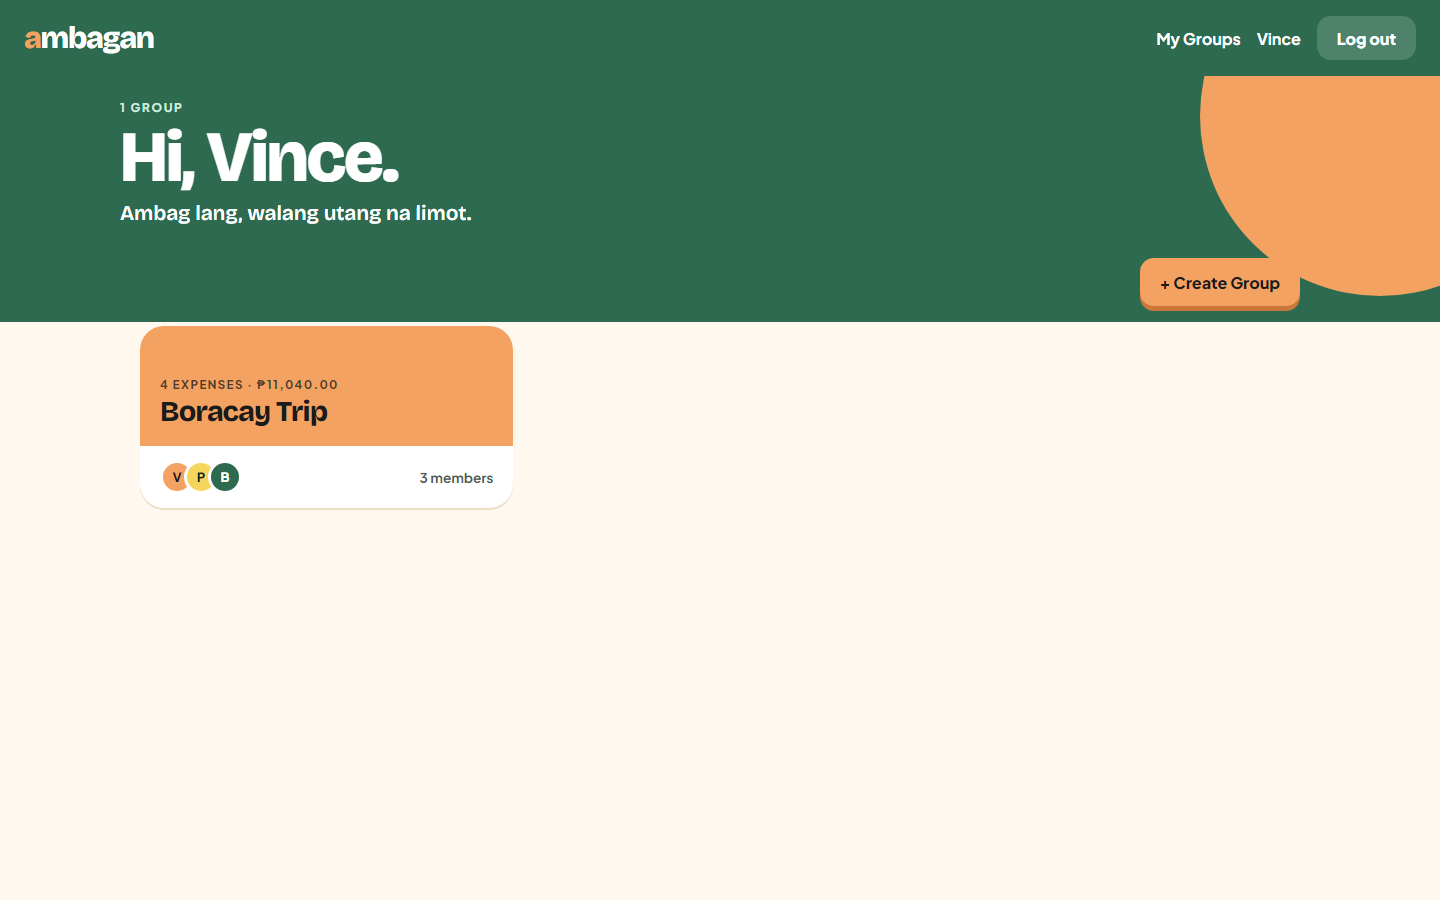
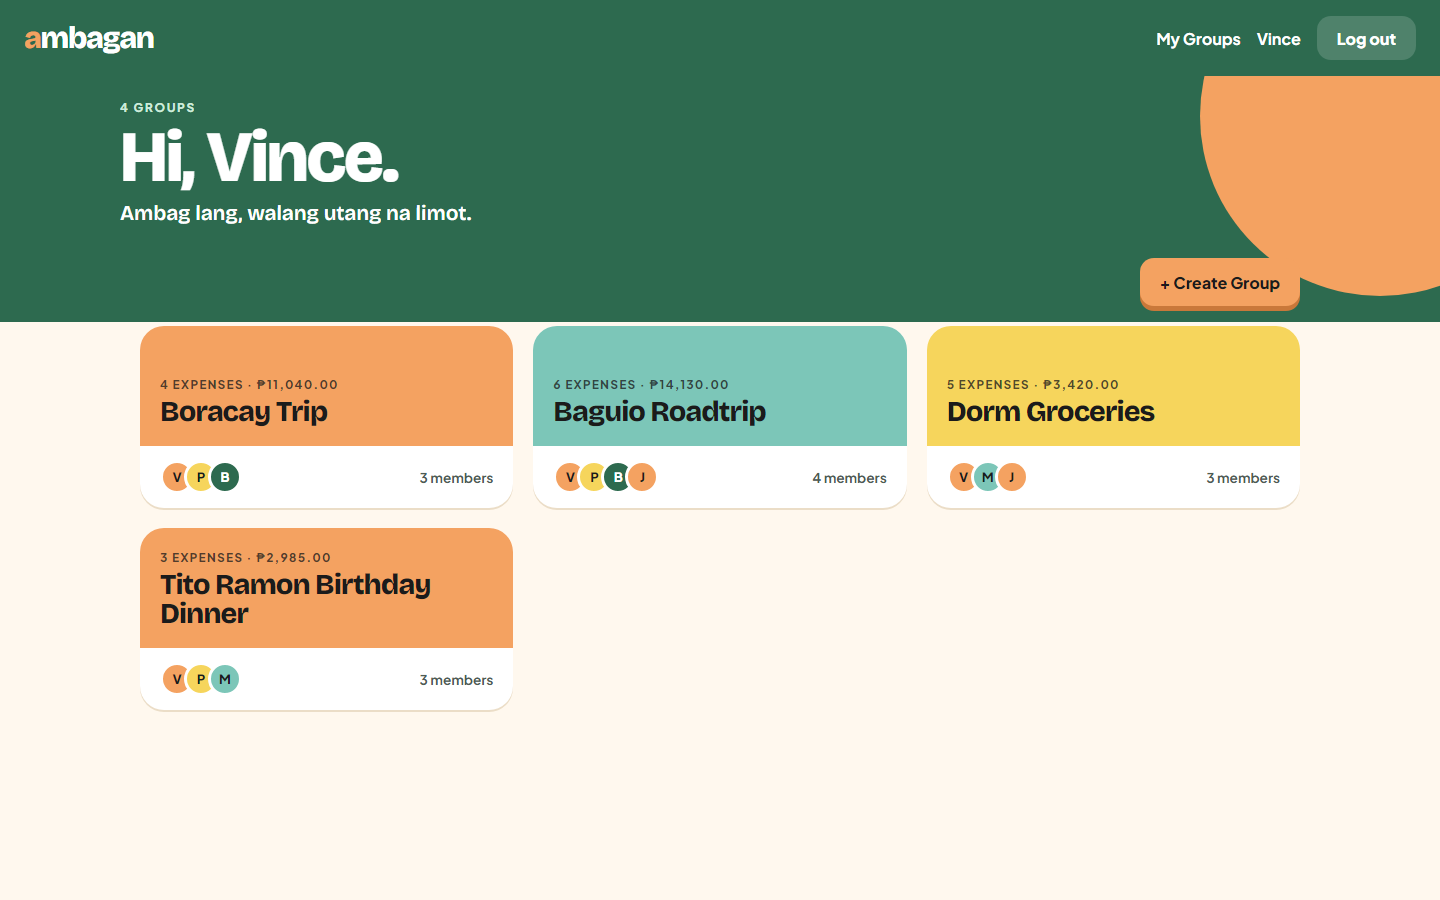
feat: richer demo data and updated README

diff --git a/server/seed.js b/server/seed.js
@@ -1,10 +1,12 @@
 // Demo data for the presentation + README screenshots.
-// Run from the server folder:  npm run seed
+// Run from the server folder:  node seed.js
 //
-// Creates 3 DEMO accounts (not your real ones) and a "Boracay Trip" group with
-// 4 expenses. Safe to run again: it rebuilds the demo group each time.
+// Creates 5 DEMO accounts (not your real ones) and 4 groups with realistic
+// expenses. Safe to run again: it rebuilds every group created by the demo
+// Vince account, so leftover test groups disappear too.
 //
 // Login after seeding:  demo.vince@ambagan.test / demo1234
+// Boracay Trip numbers are unchanged: Vince owes 740, Paolo gets back 820, Bea owes 80.
 
 require('dotenv').config();
 const bcrypt = require('bcryptjs');
@@ -20,14 +22,57 @@ const DEMO_USERS = [
   { name: 'Vince', email: 'demo.vince@ambagan.test' },
   { name: 'Paolo', email: 'demo.paolo@ambagan.test' },
   { name: 'Bea', email: 'demo.bea@ambagan.test' },
+  { name: 'Mika', email: 'demo.mika@ambagan.test' },
+  { name: 'Jun', email: 'demo.jun@ambagan.test' },
 ];
 
-// amount is in CENTAVOS (₱2,400.00 = 240000). Everyone splits equally.
-const DEMO_EXPENSES = [
-  { description: 'Samgyup dinner', amount: 240000, payer: 'Vince', daysAgo: 4 },
-  { description: 'Van rental', amount: 450000, payer: 'Paolo', daysAgo: 3 },
-  { description: 'Island hopping', amount: 360000, payer: 'Bea', daysAgo: 2 },
-  { description: 'Jollibee', amount: 54000, payer: 'Vince', daysAgo: 1 },
+// amount is in CENTAVOS (₱2,400.00 = 240000).
+// `split` is optional: names of who shares it. Leave it out to split among the whole group.
+// Groups are created in this order, and the app lists newest first,
+// so Boracay Trip (last) shows at the top.
+const DEMO_GROUPS = [
+  {
+    name: 'Tito Ramon Birthday Dinner',
+    members: ['Vince', 'Paolo', 'Mika'],
+    expenses: [
+      { description: 'Lechon belly', amount: 185000, payer: 'Paolo', daysAgo: 19 },
+      { description: 'Cake from Red Ribbon', amount: 89000, payer: 'Mika', daysAgo: 19 },
+      { description: 'Softdrinks and ice', amount: 24500, payer: 'Vince', daysAgo: 19 },
+    ],
+  },
+  {
+    name: 'Dorm Groceries',
+    members: ['Vince', 'Mika', 'Jun'],
+    expenses: [
+      { description: 'Rice 25kg', amount: 142000, payer: 'Jun', daysAgo: 14 },
+      { description: 'Canned goods and noodles', amount: 98000, payer: 'Mika', daysAgo: 12 },
+      { description: 'Cooking oil and eggs', amount: 61500, payer: 'Vince', daysAgo: 9 },
+      { description: 'Water refill (5 gallons)', amount: 22500, payer: 'Jun', daysAgo: 6 },
+      { description: 'Dishwashing soap and sponges', amount: 18000, payer: 'Mika', daysAgo: 3 },
+    ],
+  },
+  {
+    name: 'Baguio Roadtrip',
+    members: ['Vince', 'Paolo', 'Bea', 'Jun'],
+    expenses: [
+      { description: 'Gas to Baguio', amount: 320000, payer: 'Paolo', daysAgo: 10 },
+      { description: 'Toll fees (NLEX and SCTEX)', amount: 78000, payer: 'Jun', daysAgo: 10 },
+      { description: 'Hotel (2 nights)', amount: 640000, payer: 'Bea', daysAgo: 9 },
+      { description: 'Strawberry taho and snacks', amount: 36000, payer: 'Vince', daysAgo: 9 },
+      { description: 'Dinner at Camp John Hay', amount: 285000, payer: 'Vince', daysAgo: 8 },
+      { description: 'Pasalubong (peanut brittle)', amount: 54000, payer: 'Bea', daysAgo: 8, split: ['Bea', 'Jun'] },
+    ],
+  },
+  {
+    name: 'Boracay Trip',
+    members: ['Vince', 'Paolo', 'Bea'],
+    expenses: [
+      { description: 'Samgyup dinner', amount: 240000, payer: 'Vince', daysAgo: 4 },
+      { description: 'Van rental', amount: 450000, payer: 'Paolo', daysAgo: 3 },
+      { description: 'Island hopping', amount: 360000, payer: 'Bea', daysAgo: 2 },
+      { description: 'Jollibee', amount: 54000, payer: 'Vince', daysAgo: 1 },
+    ],
+  },
 ];
 
 async function seed() {
@@ -43,35 +88,41 @@ async function seed() {
     users[u.name] = doc;
   }
 
-  // Rebuild the demo group from scratch so re-running never duplicates it
-  const old = await Group.find({ name: 'Boracay Trip', createdBy: users.Vince._id });
+  // Wipe every group the demo Vince created (demo groups + any leftover test groups)
+  const old = await Group.find({ createdBy: users.Vince._id });
   for (const g of old) {
     await Expense.deleteMany({ groupId: g._id });
     await g.deleteOne();
   }
 
-  const memberIds = Object.values(users).map((u) => u._id);
-  const group = await Group.create({
-    name: 'Boracay Trip',
-    members: memberIds,
-    createdBy: users.Vince._id,
-  });
-
-  for (const e of DEMO_EXPENSES) {
-    await Expense.create({
-      groupId: group._id,
-      description: e.description,
-      amount: e.amount,
-      paidBy: users[e.payer]._id,
-      splitAmong: memberIds,
-      date: new Date(Date.now() - e.daysAgo * 24 * 60 * 60 * 1000),
+  let expenseCount = 0;
+  for (const g of DEMO_GROUPS) {
+    const memberIds = g.members.map((n) => users[n]._id);
+    const group = await Group.create({
+      name: g.name,
+      members: memberIds,
+      createdBy: users.Vince._id,
     });
+
+    for (const e of g.expenses) {
+      const splitIds = (e.split || g.members).map((n) => users[n]._id);
+      await Expense.create({
+        groupId: group._id,
+        description: e.description,
+        amount: e.amount,
+        paidBy: users[e.payer]._id,
+        splitAmong: splitIds,
+        date: new Date(Date.now() - e.daysAgo * 24 * 60 * 60 * 1000),
+      });
+      expenseCount += 1;
+    }
   }
 
   console.log('\nDemo data ready ✅');
-  console.log('Group:   Boracay Trip (3 members, 4 expenses)');
+  console.log(`Groups:  ${DEMO_GROUPS.length} (${DEMO_GROUPS.map((g) => g.name).join(', ')})`);
+  console.log(`Expenses: ${expenseCount} in total`);
   console.log(`Login:   ${DEMO_USERS[0].email}  /  ${PASSWORD}`);
-  console.log('Expect:  Vince owes ₱740.00, Paolo gets back ₱820.00, Bea owes ₱80.00\n');
+  console.log('Boracay Trip: Vince owes ₱740.00, Paolo gets back ₱820.00, Bea owes ₱80.00\n');
 
   await mongoose.disconnect();
 }

diff --git a/README.md b/README.md
@@ -88,8 +88,7 @@ Check the API is up: http://localhost:5000/api/health
 cd server && node seed.js
 ```
 
-Creates 3 demo accounts and a "Boracay Trip" group with 4 expenses. Log in with
-`demo.vince@ambagan.test` / `demo1234`. Expected balances: Vince owes ₱740.00, Paolo gets back ₱820.00, Bea owes ₱80.00.
+Creates 5 demo accounts and 4 groups (18 expenses). Log in with demo.vince@ambagan.test / demo1234. Boracay Trip should show: Vince owes ₱740.00, Paolo gets back ₱820.00, Bea owes ₱80.00.
 
 ### 5. Test the balance math
 
